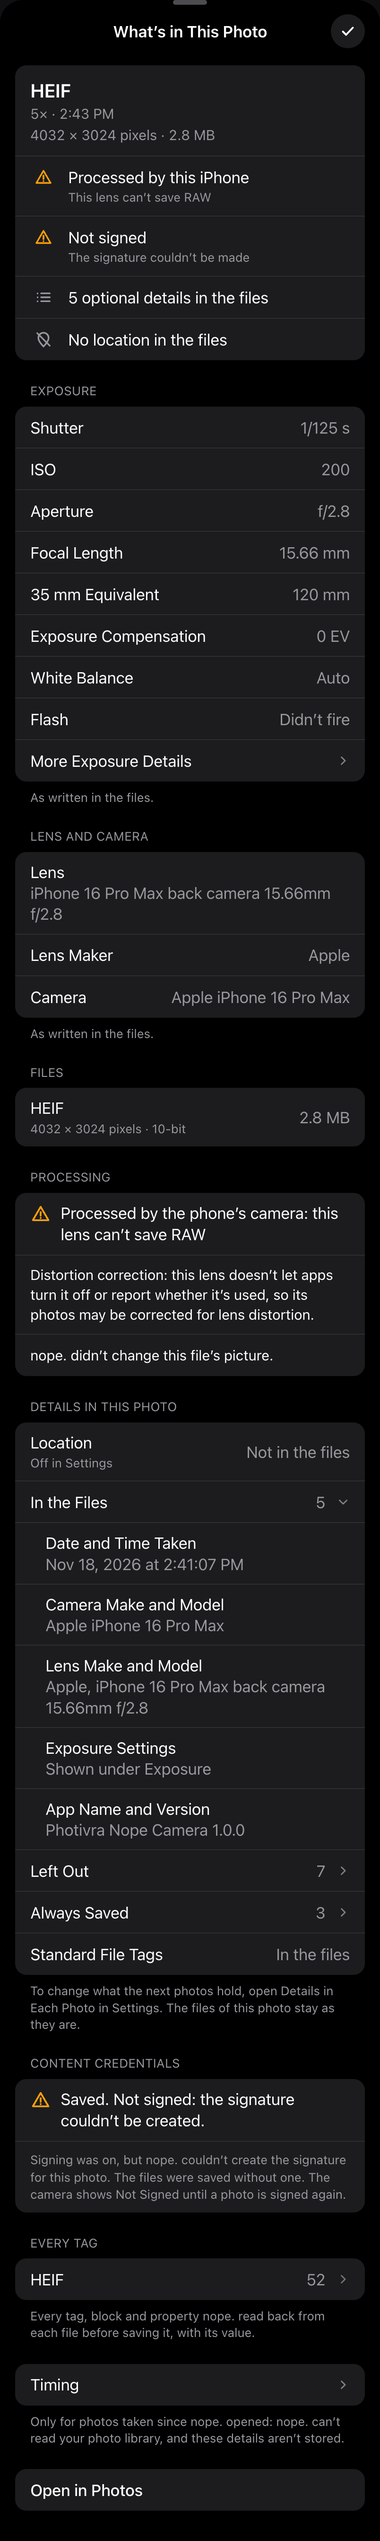
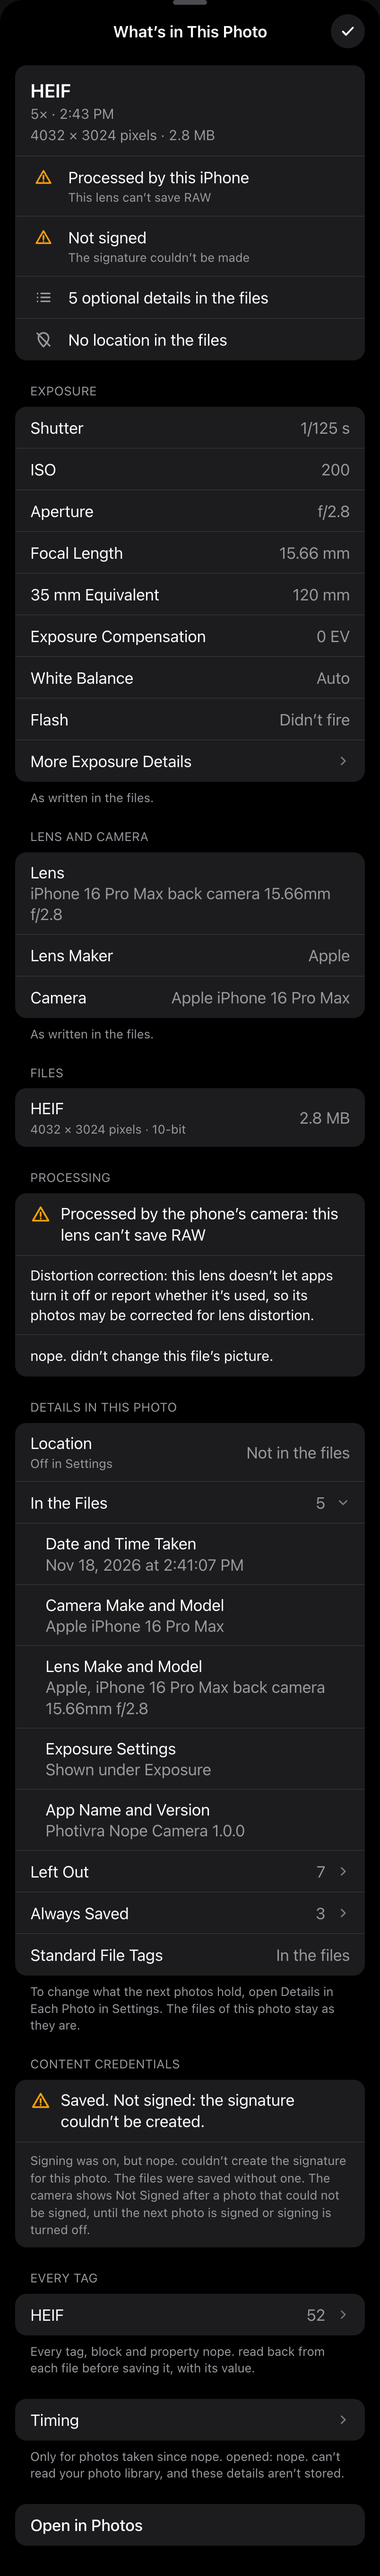
What's in This Photo: say when the Not Signed warning goes away
The Content Credentials group said the camera shows Not Signed "until a
photo is signed again". The warning follows the last photo and also goes
when signing is turned off, so both sentences now end: "The camera shows
Not Signed after a photo that could not be signed, until the next photo
is signed or signing is turned off." The wording is a draft for the
Honesty review. The two figures with the sentence are redrawn.

testDetailsSignatureStates checks the sentence. The location test now
scrolls to the summary's location row instead of waiting for it, as the
other summary checks do.

This is the Honesty sentence of the issue; its documents are done with
the rest of it.

Refs #113

diff --git a/docs/design/screens/sheet-photo-details-processed.html b/docs/design/screens/sheet-photo-details-processed.html
@@ -211,7 +211,7 @@ html{background:#101012}body{margin:0;color:#f2f2f7;font:15px/1.45 -apple-system
 </style>
 </head>
 <body>
-<div class="stage"><div class="form " style="width:402px;border-radius:24px 24px 0 0;padding-bottom:32px;"><div class=grab></div><div class="nav"><div class="back"></div><span>What’s in This Photo</span><div class="done"><span><svg class="ic " width="18" height="18" viewBox="0 0 24 24" fill="none" stroke="currentColor" stroke-width="2.6" stroke-linecap="round" stroke-linejoin="round" aria-hidden="true"><path d="m5 12.5 4.5 4.5L19 7"/></svg></span></div></div><div style="height:8px"></div><div class="grp"><div class="sm-h"><b>HEIF</b><span>5× · 2:43 PM</span><span>4032 × 3024 pixels · 2.8 MB</span></div><div class="sm-r w"><div class="ico"><svg class="ic " width="20" height="20" viewBox="0 0 24 24" fill="none" stroke="currentColor" stroke-width="2" stroke-linecap="round" stroke-linejoin="round" aria-hidden="true"><path d="M12 4 21 19.5H3z"/><path d="M12 10v4.5M12 17v.2"/></svg></div><div>Processed by this iPhone<small>This lens can’t save RAW</small></div></div><div class="sm-r w"><div class="ico"><svg class="ic " width="20" height="20" viewBox="0 0 24 24" fill="none" stroke="currentColor" stroke-width="2" stroke-linecap="round" stroke-linejoin="round" aria-hidden="true"><path d="M12 4 21 19.5H3z"/><path d="M12 10v4.5M12 17v.2"/></svg></div><div>Not signed<small>The signature couldn’t be made</small></div></div><div class="sm-r "><div class="ico"><svg class="ic " width="20" height="20" viewBox="0 0 24 24" fill="none" stroke="currentColor" stroke-width="2" stroke-linecap="round" stroke-linejoin="round" aria-hidden="true"><path d="M9 7h11M9 12h11M9 17h11M4.5 7v.2M4.5 12v.2M4.5 17v.2"/></svg></div><div>5 optional details in the files</div></div><div class="sm-r "><div class="ico"><svg class="ic " width="20" height="20" viewBox="0 0 24 24" fill="none" stroke="currentColor" stroke-width="2" stroke-linecap="round" stroke-linejoin="round" aria-hidden="true"><path d="M12 21s-6.5-6.2-6.5-11a6.500 6.500 0 0 1 13 0c0 4.800-6.500 11-6.500 11z"/><path d="m4 4 16 16"/></svg></div><div>No location in the files</div></div></div><h5>Exposure</h5><div class="grp"><div class="cell"><div class="l">Shutter</div><div class="pd-v">1/125 s</div></div><div class="cell"><div class="l">ISO</div><div class="pd-v">200</div></div><div class="cell"><div class="l">Aperture</div><div class="pd-v">f/2.8</div></div><div class="cell"><div class="l">Focal Length</div><div class="pd-v">15.66 mm</div></div><div class="cell"><div class="l">35 mm Equivalent</div><div class="pd-v">120 mm</div></div><div class="cell"><div class="l">Exposure Compensation</div><div class="pd-v">0 EV</div></div><div class="cell"><div class="l">White Balance</div><div class="pd-v">Auto</div></div><div class="cell"><div class="l">Flash</div><div class="pd-v">Didn’t fire</div></div><div class="cell"><div class="l">More Exposure Details</div><div class="pd-d"><svg class="ic dirx" width="14" height="14" viewBox="0 0 24 24" fill="none" stroke="currentColor" stroke-width="2.4" stroke-linecap="round" stroke-linejoin="round" aria-hidden="true"><path d="m9 5.5 6.5 6.5L9 18.5"/></svg></div></div></div><p class=foot2>As written in the files.</p><h5>Lens and Camera</h5><div class="grp"><div class="cell"><div class="l">Lens<div style="color:var(--fsec)">iPhone 16 Pro Max back camera 15.66mm f/2.8</div></div></div><div class="cell"><div class="l">Lens Maker</div><div class="pd-v">Apple</div></div><div class="cell"><div class="l">Camera</div><div class="pd-v">Apple iPhone 16 Pro Max</div></div></div><p class=foot2>As written in the files.</p><h5>Files</h5><div class="grp"><div class="cell"><div class="l">HEIF<small style="display:block;font-size:13px;color:var(--fsec);margin-top:2px;line-height:1.35">4032 × 3024 pixels · 10-bit</small></div><div class="pd-v">2.8 MB</div></div></div><h5>Processing</h5><div class="grp"><div class="cell" style="align-items:flex-start"><div class="pd-ln w" style="font-size:17px"><svg class="ic " width="22" height="22" viewBox="0 0 24 24" fill="none" stroke="currentColor" stroke-width="2" stroke-linecap="round" stroke-linejoin="round" aria-hidden="true"><path d="M12 4 21 19.5H3z"/><path d="M12 10v4.5M12 17v.2"/></svg><span>Processed by the phone’s camera: this lens can’t save RAW</span></div></div><div class="cell"><div class="l" style="font-size:15px;line-height:1.4;">Distortion correction: this lens doesn’t let apps turn it off or report whether it’s used, so its photos may be corrected for lens distortion.</div></div><div class="cell"><div class="l" style="font-size:15px;line-height:1.4;">nope. didn’t change this file’s picture.</div></div></div><h5>Details in This Photo</h5><div class="grp"><div class="cell"><div class="l">Location<small style="display:block;font-size:13px;color:var(--fsec);margin-top:2px;line-height:1.35">Off in Settings</small></div><div class="pd-v">Not in the files</div></div><div class="cell"><div class="l">In the Files</div><div class=pd-v>5</div><div class="pd-d"><svg class="ic " width="14" height="14" viewBox="0 0 24 24" fill="none" stroke="currentColor" stroke-width="2.4" stroke-linecap="round" stroke-linejoin="round" aria-hidden="true"><path d="m5.5 9 6.5 6.5L18.5 9"/></svg></div></div><div class="cell pd-in"><div class="l">Date and Time Taken<div style="color:var(--fsec)">Nov 18, 2026 at 2:41:07 PM</div></div></div><div class="cell pd-in"><div class="l">Camera Make and Model<div style="color:var(--fsec)">Apple iPhone 16 Pro Max</div></div></div><div class="cell pd-in"><div class="l">Lens Make and Model<div style="color:var(--fsec)">Apple, iPhone 16 Pro Max back camera 15.66mm f/2.8</div></div></div><div class="cell pd-in"><div class="l">Exposure Settings<div style="color:var(--fsec)">Shown under Exposure</div></div></div><div class="cell pd-in"><div class="l">App Name and Version<div style="color:var(--fsec)">Photivra Nope Camera 1.0.0</div></div></div><div class="cell"><div class="l">Left Out</div><div class=pd-v>7</div><div class="pd-d"><svg class="ic dirx" width="14" height="14" viewBox="0 0 24 24" fill="none" stroke="currentColor" stroke-width="2.4" stroke-linecap="round" stroke-linejoin="round" aria-hidden="true"><path d="m9 5.5 6.5 6.5L9 18.5"/></svg></div></div><div class="cell"><div class="l">Always Saved</div><div class=pd-v>3</div><div class="pd-d"><svg class="ic dirx" width="14" height="14" viewBox="0 0 24 24" fill="none" stroke="currentColor" stroke-width="2.4" stroke-linecap="round" stroke-linejoin="round" aria-hidden="true"><path d="m9 5.5 6.5 6.5L9 18.5"/></svg></div></div><div class="cell"><div class="l">Standard File Tags</div><div class="pd-v">In the files</div></div></div><p class=foot2>To change what the next photos hold, open Details in Each Photo in Settings. The files of this photo stay as they are.</p><h5>Content Credentials</h5><div class="grp"><div class="cell" style="align-items:flex-start"><div class="pd-ln w" style="font-size:17px"><svg class="ic " width="22" height="22" viewBox="0 0 24 24" fill="none" stroke="currentColor" stroke-width="2" stroke-linecap="round" stroke-linejoin="round" aria-hidden="true"><path d="M12 4 21 19.5H3z"/><path d="M12 10v4.5M12 17v.2"/></svg><span>Saved. Not signed: the signature couldn’t be created.</span></div></div><div class="cell"><div class="l" style="font-size:13px;line-height:1.4;color:var(--fsec)">Signing was on, but nope. couldn’t create the signature for this photo. The files were saved without one. The camera shows Not Signed until a photo is signed again.</div></div></div><h5>Every Tag</h5><div class="grp"><div class="cell"><div class="l">HEIF</div><div class=v>52</div><div class="chev"><svg class="ic dirx" width="14" height="14" viewBox="0 0 24 24" fill="none" stroke="currentColor" stroke-width="2.4" stroke-linecap="round" stroke-linejoin="round" aria-hidden="true"><path d="m9 5.5 6.5 6.5L9 18.5"/></svg></div></div></div><p class=foot2>Every tag, block and property nope. read back from each file before saving it, with its value.</p><div style="height:24px"></div><div class="grp"><div class="cell"><div class="l">Timing</div><div class="pd-d"><svg class="ic dirx" width="14" height="14" viewBox="0 0 24 24" fill="none" stroke="currentColor" stroke-width="2.4" stroke-linecap="round" stroke-linejoin="round" aria-hidden="true"><path d="m9 5.5 6.5 6.5L9 18.5"/></svg></div></div></div><p class=foot2>Only for photos taken since nope. opened: nope. can’t read your photo library, and these details aren’t stored.</p><div style="height:24px"></div><div class="grp"><div class="cell btn"><div class="l">Open in Photos</div></div></div></div></div>
+<div class="stage"><div class="form " style="width:402px;border-radius:24px 24px 0 0;padding-bottom:32px;"><div class=grab></div><div class="nav"><div class="back"></div><span>What’s in This Photo</span><div class="done"><span><svg class="ic " width="18" height="18" viewBox="0 0 24 24" fill="none" stroke="currentColor" stroke-width="2.6" stroke-linecap="round" stroke-linejoin="round" aria-hidden="true"><path d="m5 12.5 4.5 4.5L19 7"/></svg></span></div></div><div style="height:8px"></div><div class="grp"><div class="sm-h"><b>HEIF</b><span>5× · 2:43 PM</span><span>4032 × 3024 pixels · 2.8 MB</span></div><div class="sm-r w"><div class="ico"><svg class="ic " width="20" height="20" viewBox="0 0 24 24" fill="none" stroke="currentColor" stroke-width="2" stroke-linecap="round" stroke-linejoin="round" aria-hidden="true"><path d="M12 4 21 19.5H3z"/><path d="M12 10v4.5M12 17v.2"/></svg></div><div>Processed by this iPhone<small>This lens can’t save RAW</small></div></div><div class="sm-r w"><div class="ico"><svg class="ic " width="20" height="20" viewBox="0 0 24 24" fill="none" stroke="currentColor" stroke-width="2" stroke-linecap="round" stroke-linejoin="round" aria-hidden="true"><path d="M12 4 21 19.5H3z"/><path d="M12 10v4.5M12 17v.2"/></svg></div><div>Not signed<small>The signature couldn’t be made</small></div></div><div class="sm-r "><div class="ico"><svg class="ic " width="20" height="20" viewBox="0 0 24 24" fill="none" stroke="currentColor" stroke-width="2" stroke-linecap="round" stroke-linejoin="round" aria-hidden="true"><path d="M9 7h11M9 12h11M9 17h11M4.5 7v.2M4.5 12v.2M4.5 17v.2"/></svg></div><div>5 optional details in the files</div></div><div class="sm-r "><div class="ico"><svg class="ic " width="20" height="20" viewBox="0 0 24 24" fill="none" stroke="currentColor" stroke-width="2" stroke-linecap="round" stroke-linejoin="round" aria-hidden="true"><path d="M12 21s-6.5-6.2-6.5-11a6.500 6.500 0 0 1 13 0c0 4.800-6.500 11-6.500 11z"/><path d="m4 4 16 16"/></svg></div><div>No location in the files</div></div></div><h5>Exposure</h5><div class="grp"><div class="cell"><div class="l">Shutter</div><div class="pd-v">1/125 s</div></div><div class="cell"><div class="l">ISO</div><div class="pd-v">200</div></div><div class="cell"><div class="l">Aperture</div><div class="pd-v">f/2.8</div></div><div class="cell"><div class="l">Focal Length</div><div class="pd-v">15.66 mm</div></div><div class="cell"><div class="l">35 mm Equivalent</div><div class="pd-v">120 mm</div></div><div class="cell"><div class="l">Exposure Compensation</div><div class="pd-v">0 EV</div></div><div class="cell"><div class="l">White Balance</div><div class="pd-v">Auto</div></div><div class="cell"><div class="l">Flash</div><div class="pd-v">Didn’t fire</div></div><div class="cell"><div class="l">More Exposure Details</div><div class="pd-d"><svg class="ic dirx" width="14" height="14" viewBox="0 0 24 24" fill="none" stroke="currentColor" stroke-width="2.4" stroke-linecap="round" stroke-linejoin="round" aria-hidden="true"><path d="m9 5.5 6.5 6.5L9 18.5"/></svg></div></div></div><p class=foot2>As written in the files.</p><h5>Lens and Camera</h5><div class="grp"><div class="cell"><div class="l">Lens<div style="color:var(--fsec)">iPhone 16 Pro Max back camera 15.66mm f/2.8</div></div></div><div class="cell"><div class="l">Lens Maker</div><div class="pd-v">Apple</div></div><div class="cell"><div class="l">Camera</div><div class="pd-v">Apple iPhone 16 Pro Max</div></div></div><p class=foot2>As written in the files.</p><h5>Files</h5><div class="grp"><div class="cell"><div class="l">HEIF<small style="display:block;font-size:13px;color:var(--fsec);margin-top:2px;line-height:1.35">4032 × 3024 pixels · 10-bit</small></div><div class="pd-v">2.8 MB</div></div></div><h5>Processing</h5><div class="grp"><div class="cell" style="align-items:flex-start"><div class="pd-ln w" style="font-size:17px"><svg class="ic " width="22" height="22" viewBox="0 0 24 24" fill="none" stroke="currentColor" stroke-width="2" stroke-linecap="round" stroke-linejoin="round" aria-hidden="true"><path d="M12 4 21 19.5H3z"/><path d="M12 10v4.5M12 17v.2"/></svg><span>Processed by the phone’s camera: this lens can’t save RAW</span></div></div><div class="cell"><div class="l" style="font-size:15px;line-height:1.4;">Distortion correction: this lens doesn’t let apps turn it off or report whether it’s used, so its photos may be corrected for lens distortion.</div></div><div class="cell"><div class="l" style="font-size:15px;line-height:1.4;">nope. didn’t change this file’s picture.</div></div></div><h5>Details in This Photo</h5><div class="grp"><div class="cell"><div class="l">Location<small style="display:block;font-size:13px;color:var(--fsec);margin-top:2px;line-height:1.35">Off in Settings</small></div><div class="pd-v">Not in the files</div></div><div class="cell"><div class="l">In the Files</div><div class=pd-v>5</div><div class="pd-d"><svg class="ic " width="14" height="14" viewBox="0 0 24 24" fill="none" stroke="currentColor" stroke-width="2.4" stroke-linecap="round" stroke-linejoin="round" aria-hidden="true"><path d="m5.5 9 6.5 6.5L18.5 9"/></svg></div></div><div class="cell pd-in"><div class="l">Date and Time Taken<div style="color:var(--fsec)">Nov 18, 2026 at 2:41:07 PM</div></div></div><div class="cell pd-in"><div class="l">Camera Make and Model<div style="color:var(--fsec)">Apple iPhone 16 Pro Max</div></div></div><div class="cell pd-in"><div class="l">Lens Make and Model<div style="color:var(--fsec)">Apple, iPhone 16 Pro Max back camera 15.66mm f/2.8</div></div></div><div class="cell pd-in"><div class="l">Exposure Settings<div style="color:var(--fsec)">Shown under Exposure</div></div></div><div class="cell pd-in"><div class="l">App Name and Version<div style="color:var(--fsec)">Photivra Nope Camera 1.0.0</div></div></div><div class="cell"><div class="l">Left Out</div><div class=pd-v>7</div><div class="pd-d"><svg class="ic dirx" width="14" height="14" viewBox="0 0 24 24" fill="none" stroke="currentColor" stroke-width="2.4" stroke-linecap="round" stroke-linejoin="round" aria-hidden="true"><path d="m9 5.5 6.5 6.5L9 18.5"/></svg></div></div><div class="cell"><div class="l">Always Saved</div><div class=pd-v>3</div><div class="pd-d"><svg class="ic dirx" width="14" height="14" viewBox="0 0 24 24" fill="none" stroke="currentColor" stroke-width="2.4" stroke-linecap="round" stroke-linejoin="round" aria-hidden="true"><path d="m9 5.5 6.5 6.5L9 18.5"/></svg></div></div><div class="cell"><div class="l">Standard File Tags</div><div class="pd-v">In the files</div></div></div><p class=foot2>To change what the next photos hold, open Details in Each Photo in Settings. The files of this photo stay as they are.</p><h5>Content Credentials</h5><div class="grp"><div class="cell" style="align-items:flex-start"><div class="pd-ln w" style="font-size:17px"><svg class="ic " width="22" height="22" viewBox="0 0 24 24" fill="none" stroke="currentColor" stroke-width="2" stroke-linecap="round" stroke-linejoin="round" aria-hidden="true"><path d="M12 4 21 19.5H3z"/><path d="M12 10v4.5M12 17v.2"/></svg><span>Saved. Not signed: the signature couldn’t be created.</span></div></div><div class="cell"><div class="l" style="font-size:13px;line-height:1.4;color:var(--fsec)">Signing was on, but nope. couldn’t create the signature for this photo. The files were saved without one. The camera shows Not Signed after a photo that could not be signed, until the next photo is signed or signing is turned off.</div></div></div><h5>Every Tag</h5><div class="grp"><div class="cell"><div class="l">HEIF</div><div class=v>52</div><div class="chev"><svg class="ic dirx" width="14" height="14" viewBox="0 0 24 24" fill="none" stroke="currentColor" stroke-width="2.4" stroke-linecap="round" stroke-linejoin="round" aria-hidden="true"><path d="m9 5.5 6.5 6.5L9 18.5"/></svg></div></div></div><p class=foot2>Every tag, block and property nope. read back from each file before saving it, with its value.</p><div style="height:24px"></div><div class="grp"><div class="cell"><div class="l">Timing</div><div class="pd-d"><svg class="ic dirx" width="14" height="14" viewBox="0 0 24 24" fill="none" stroke="currentColor" stroke-width="2.4" stroke-linecap="round" stroke-linejoin="round" aria-hidden="true"><path d="m9 5.5 6.5 6.5L9 18.5"/></svg></div></div></div><p class=foot2>Only for photos taken since nope. opened: nope. can’t read your photo library, and these details aren’t stored.</p><div style="height:24px"></div><div class="grp"><div class="cell btn"><div class="l">Open in Photos</div></div></div></div></div>
 <div class="note"><b>What’s in This Photo, a processed photo that could not be signed</b>A lens without RAW: one HEIF, processed by the phone’s camera. The summary and Processing say so with the amber triangle; Processing carries the lens’s distortion line and what nope. did. There is no RAW Sensor Data group. Signing was on and failed, so the signature line is a warning, with the reason. Drawn 402 pt wide, at its full scrolling height. <a href="sheet-photo-details-processed.png">PNG</a> · <a href="../photo-details.html">Back to the set</a> · <a href="../overview.html">Overview</a></div>
 </body>
 </html>

diff --git a/docs/design/screens/sheet-photo-details-signature.html b/docs/design/screens/sheet-photo-details-signature.html
@@ -210,7 +210,7 @@ html{background:#101012}body{margin:0;color:#f2f2f7;font:15px/1.45 -apple-system
 </style>
 </head>
 <body>
-<div class="stage"><div class="form " style="width:402px;border-radius:24px 24px 0 0;padding-bottom:32px;"><div class="nav"><div class="back"></div><span>What’s in This Photo</span><div class="done"><span><svg class="ic " width="18" height="18" viewBox="0 0 24 24" fill="none" stroke="currentColor" stroke-width="2.6" stroke-linecap="round" stroke-linejoin="round" aria-hidden="true"><path d="m5 12.5 4.5 4.5L19 7"/></svg></span></div></div><div class="pd-var"><i>1</i>Signed</div><h5>Content Credentials</h5><div class="grp"><div class="cell" style="align-items:flex-start"><div class="pd-ln f" style="font-size:17px"><svg class="ic " width="22" height="22" viewBox="0 0 24 24" fill="none" stroke="currentColor" stroke-width="2" stroke-linecap="round" stroke-linejoin="round" aria-hidden="true"><circle cx="12" cy="12" r="8.5"/><path d="m8.2 12.3 2.6 2.6 5-5.6"/></svg><span>Saved and signed.</span></div></div><div class="cell"><div class="l" style="font-size:15px;line-height:1.4;">The signature lets anyone check that a file hasn’t changed since nope. saved it. It doesn’t show who took the photo or on which device.</div></div><div class="cell"><div class="l">RAW (DNG)<div style="color:var(--fsec)">Claim generator: Photivra Nope Camera 1.0.0</div><div class="pd-n">“Captured by Photivra Nope Camera as a single frame of RAW sensor data, with as little processing as the phone allows.”</div></div></div><div class="cell"><div class="l">Manifest SHA-256</div><div class="pd-d"><svg class="ic dirx" width="14" height="14" viewBox="0 0 24 24" fill="none" stroke="currentColor" stroke-width="2.4" stroke-linecap="round" stroke-linejoin="round" aria-hidden="true"><path d="m9 5.5 6.5 6.5L9 18.5"/></svg></div></div><div class="cell"><div class="l">HEIF<div style="color:var(--fsec)">Claim generator: Photivra Nope Camera 1.0.0</div><div class="pd-n">“Developed by Photivra Nope Camera on the phone from a single frame of RAW sensor data.”</div></div></div><div class="cell"><div class="l">Manifest SHA-256</div><div class="pd-d"><svg class="ic dirx" width="14" height="14" viewBox="0 0 24 24" fill="none" stroke="currentColor" stroke-width="2.4" stroke-linecap="round" stroke-linejoin="round" aria-hidden="true"><path d="m9 5.5 6.5 6.5L9 18.5"/></svg></div></div><div class="cell"><div class="l" style="font-size:13px;line-height:1.4;color:var(--fsec)">To check a file, open it in a Content Credentials checker. Each photo is signed with its own one-time key, so a checker reports the file as valid and the signer as untrusted.</div></div></div><div class="pd-var"><i>2</i>Not signed: signing is off in Settings (a choice, not a warning)</div><h5>Content Credentials</h5><div class="grp"><div class="cell" style="align-items:flex-start"><div class="pd-ln " style="font-size:17px"><svg class="ic " width="22" height="22" viewBox="0 0 24 24" fill="none" stroke="currentColor" stroke-width="2" stroke-linecap="round" stroke-linejoin="round" aria-hidden="true"><circle cx="12" cy="12" r="8.5"/><path d="M12 11v5.500M12 7.500v.2"/></svg><span>Saved. Not signed: signing is off in Settings.</span></div></div><div class="cell"><div class="l" style="font-size:13px;line-height:1.4;color:var(--fsec)">Sign Each Photo is off in Settings, so these files have no signature.</div></div></div><div class="pd-var"><i>3</i>Not signed: signing was on and failed (a warning)</div><h5>Content Credentials</h5><div class="grp"><div class="cell" style="align-items:flex-start"><div class="pd-ln w" style="font-size:17px"><svg class="ic " width="22" height="22" viewBox="0 0 24 24" fill="none" stroke="currentColor" stroke-width="2" stroke-linecap="round" stroke-linejoin="round" aria-hidden="true"><path d="M12 4 21 19.5H3z"/><path d="M12 10v4.5M12 17v.2"/></svg><span>Saved. Not signed: the signature couldn’t be created.</span></div></div><div class="cell"><div class="l" style="font-size:13px;line-height:1.4;color:var(--fsec)">Signing was on, but nope. couldn’t create the signature for this photo. The files were saved without one. The camera shows Not Signed until a photo is signed again.</div></div></div></div></div>
+<div class="stage"><div class="form " style="width:402px;border-radius:24px 24px 0 0;padding-bottom:32px;"><div class="nav"><div class="back"></div><span>What’s in This Photo</span><div class="done"><span><svg class="ic " width="18" height="18" viewBox="0 0 24 24" fill="none" stroke="currentColor" stroke-width="2.6" stroke-linecap="round" stroke-linejoin="round" aria-hidden="true"><path d="m5 12.5 4.5 4.5L19 7"/></svg></span></div></div><div class="pd-var"><i>1</i>Signed</div><h5>Content Credentials</h5><div class="grp"><div class="cell" style="align-items:flex-start"><div class="pd-ln f" style="font-size:17px"><svg class="ic " width="22" height="22" viewBox="0 0 24 24" fill="none" stroke="currentColor" stroke-width="2" stroke-linecap="round" stroke-linejoin="round" aria-hidden="true"><circle cx="12" cy="12" r="8.5"/><path d="m8.2 12.3 2.6 2.6 5-5.6"/></svg><span>Saved and signed.</span></div></div><div class="cell"><div class="l" style="font-size:15px;line-height:1.4;">The signature lets anyone check that a file hasn’t changed since nope. saved it. It doesn’t show who took the photo or on which device.</div></div><div class="cell"><div class="l">RAW (DNG)<div style="color:var(--fsec)">Claim generator: Photivra Nope Camera 1.0.0</div><div class="pd-n">“Captured by Photivra Nope Camera as a single frame of RAW sensor data, with as little processing as the phone allows.”</div></div></div><div class="cell"><div class="l">Manifest SHA-256</div><div class="pd-d"><svg class="ic dirx" width="14" height="14" viewBox="0 0 24 24" fill="none" stroke="currentColor" stroke-width="2.4" stroke-linecap="round" stroke-linejoin="round" aria-hidden="true"><path d="m9 5.5 6.5 6.5L9 18.5"/></svg></div></div><div class="cell"><div class="l">HEIF<div style="color:var(--fsec)">Claim generator: Photivra Nope Camera 1.0.0</div><div class="pd-n">“Developed by Photivra Nope Camera on the phone from a single frame of RAW sensor data.”</div></div></div><div class="cell"><div class="l">Manifest SHA-256</div><div class="pd-d"><svg class="ic dirx" width="14" height="14" viewBox="0 0 24 24" fill="none" stroke="currentColor" stroke-width="2.4" stroke-linecap="round" stroke-linejoin="round" aria-hidden="true"><path d="m9 5.5 6.5 6.5L9 18.5"/></svg></div></div><div class="cell"><div class="l" style="font-size:13px;line-height:1.4;color:var(--fsec)">To check a file, open it in a Content Credentials checker. Each photo is signed with its own one-time key, so a checker reports the file as valid and the signer as untrusted.</div></div></div><div class="pd-var"><i>2</i>Not signed: signing is off in Settings (a choice, not a warning)</div><h5>Content Credentials</h5><div class="grp"><div class="cell" style="align-items:flex-start"><div class="pd-ln " style="font-size:17px"><svg class="ic " width="22" height="22" viewBox="0 0 24 24" fill="none" stroke="currentColor" stroke-width="2" stroke-linecap="round" stroke-linejoin="round" aria-hidden="true"><circle cx="12" cy="12" r="8.5"/><path d="M12 11v5.500M12 7.500v.2"/></svg><span>Saved. Not signed: signing is off in Settings.</span></div></div><div class="cell"><div class="l" style="font-size:13px;line-height:1.4;color:var(--fsec)">Sign Each Photo is off in Settings, so these files have no signature.</div></div></div><div class="pd-var"><i>3</i>Not signed: signing was on and failed (a warning)</div><h5>Content Credentials</h5><div class="grp"><div class="cell" style="align-items:flex-start"><div class="pd-ln w" style="font-size:17px"><svg class="ic " width="22" height="22" viewBox="0 0 24 24" fill="none" stroke="currentColor" stroke-width="2" stroke-linecap="round" stroke-linejoin="round" aria-hidden="true"><path d="M12 4 21 19.5H3z"/><path d="M12 10v4.5M12 17v.2"/></svg><span>Saved. Not signed: the signature couldn’t be created.</span></div></div><div class="cell"><div class="l" style="font-size:13px;line-height:1.4;color:var(--fsec)">Signing was on, but nope. couldn’t create the signature for this photo. The files were saved without one. The camera shows Not Signed after a photo that could not be signed, until the next photo is signed or signing is turned off.</div></div></div></div></div>
 <div class="note"><b>Content Credentials, the three states</b>The Content Credentials group in its three states, one under the other for comparison; the sheet shows one. Signed: the teal seal, what the signature shows and does not show, each file’s manifest, and how to check a file. Signing off by choice: the information symbol, no warning. Signing on and failed: the amber triangle and the reason. The wording is a draft for the Honesty review. Drawn 402 pt wide, at its full scrolling height. <a href="sheet-photo-details-signature.png">PNG</a> · <a href="../photo-details.html">Back to the set</a> · <a href="../overview.html">Overview</a></div>
 </body>
 </html>

diff --git a/Sources/NopeUI/PhotoDetailsSignature.swift b/Sources/NopeUI/PhotoDetailsSignature.swift
@@ -90,11 +90,11 @@ struct ContentCredentialsSection: View {
         case .unsigned(.turnedOff):
             Text("Sign Each Photo is off in Settings, so these files have no signature.", tableName: "Honesty", bundle: .module, comment: "In the photo details: the photo isn't signed because the person turned the Sign Each Photo setting off. Not a warning. Draft wording for the Honesty review.")
         case .unsigned(.failed):
-            Text("Signing was on, but nope. couldn't create the signature for this photo. The files were saved without one. The camera shows Not Signed until a photo is signed again.", tableName: "Honesty", bundle: .module, comment: "In the photo details: signing was on but failed for this photo, so it was saved unsigned. Not Signed is the warning chip on the camera. Keep nope. unchanged. Draft wording for the Honesty review.")
+            Text("Signing was on, but nope. couldn't create the signature for this photo. The files were saved without one. The camera shows Not Signed after a photo that could not be signed, until the next photo is signed or signing is turned off.", tableName: "Honesty", bundle: .module, comment: "In the photo details: signing was on but failed for this photo, so it was saved unsigned. Not Signed is the warning chip on the camera. The last sentence says when the camera's warning goes away (issue #113): it follows the last photo, and also goes when signing is turned off. Keep nope. unchanged. Draft wording for the Honesty review.")
         case .unsigned(.unavailable):
             Text("Signing was on, but this version of the app can't sign photos. The files were saved without a signature.", tableName: "Honesty", bundle: .module, comment: "In the photo details: signing was on, but this build of the app has no signer, so the photo was saved unsigned. Draft wording for the Honesty review.")
         case .unsigned(.signedFileFailedCheck):
-            Text("Signing was on, but the signed file didn't pass nope.'s check, so the file that passed was saved without a signature. The camera shows Not Signed until a photo is signed again.", tableName: "Honesty", bundle: .module, comment: "In the photo details: a signed file failed the read-back check, so the unsigned file, which passed, was saved instead. Not Signed is the warning chip on the camera. Keep nope. unchanged. Draft wording for the Honesty review.")
+            Text("Signing was on, but the signed file didn't pass nope.'s check, so the file that passed was saved without a signature. The camera shows Not Signed after a photo that could not be signed, until the next photo is signed or signing is turned off.", tableName: "Honesty", bundle: .module, comment: "In the photo details: a signed file failed the read-back check, so the unsigned file, which passed, was saved instead. Not Signed is the warning chip on the camera. The last sentence says when the camera's warning goes away (issue #113): it follows the last photo, and also goes when signing is turned off. Keep nope. unchanged. Draft wording for the Honesty review.")
         }
     }
 }

diff --git a/App/NopeAppUITests/PhotoDetailsUITests.swift b/App/NopeAppUITests/PhotoDetailsUITests.swift
@@ -236,6 +236,13 @@ extension NopeAppUITests {
             openPhotoDetails(app)
             let explanation = element(app, containing: sentence)
             XCTAssertTrue(scrollDetails(app, to: explanation), sentence)
+            if scenario == "signingFails" {
+                // When the warning on the camera goes away (issue #113).
+                XCTAssertTrue(
+                    explanation.label.contains(
+                        "The camera shows Not Signed after a photo that could not be signed, until the next photo is signed or signing is turned off."),
+                    explanation.label)
+            }
             try audit(app, afterScrolling: true, checksDynamicType: false)
             app.terminate()
         }
@@ -245,7 +252,7 @@ extension NopeAppUITests {
     func testDetailsLocationHiddenUntilShown() throws {
         let app = launch("manual", extraArguments: Self.locationKept)
         openPhotoDetails(app)
-        XCTAssertTrue(summaryRow(app, "location").waitForExistence(timeout: 5))
+        XCTAssertTrue(scrollDetails(app, to: summaryRow(app, "location")))
         XCTAssertEqual(summaryRow(app, "location").label, "Warning, Location is in the files")
         let show = app.buttons["Show Value, Location"]
         XCTAssertTrue(scrollDetails(app, to: show))

diff --git a/CHANGELOG.md b/CHANGELOG.md
@@ -110,6 +110,7 @@ Languages: 1.0.0 ships in English only (issue #86); Spanish (es, with es-419 ove
   - The viewer's page could not be zoomed after a series of more than 100 photos dropped the photo it was opened on (issue #102). The viewer showed the newest photo but kept the dropped photo as the one shown, so the page drawn had no zoom. It now follows the newest photo (`PhotoViewerFacts.shownID(_:in:)`). Unit tests in `PhotoViewerTests`; a device check in `docs/TESTING.md`.
   - The viewer decoded its three pages at the preview's full 3072 pixels, about 28 MB each (issue #103). Each page is now decoded at the size it fills on the screen, and the page shown at full size only while it is zoomed in; a page that leaves the zoom goes back to the fitted picture (`PhotoViewerFacts.decodes(around:in:page:displayScale:isZoomed:)`, through `SessionPhotos.picture(of:maximumPixelSize:)`). Unit tests for the sizes asked for; the memory before and after is a device check in `docs/TESTING.md`.
   - At accessibility text sizes the viewer's status lines ("Processed · HEIF", "Not signed") kept their full width and could run past the edge of a narrow window (issue #110). In the stacked lines each now wraps; the one-line forms are unchanged. A unit test measures the lines in a 160-point width.
+  - What's in This Photo said the camera shows Not Signed "until a photo is signed again", which was not exact: the warning follows the last photo, and also goes when signing is turned off (issue #113). Both sentences of Content Credentials now say "The camera shows Not Signed after a photo that could not be signed, until the next photo is signed or signing is turned off." A draft for the Honesty review. The two figures with the sentence are redrawn.
 - Fifth code review of 1.0.0:
   - Night Mode rows in settings pages and sheets are darker: `#1C0000` on a black page, where the night red is 5.0:1 (it was 4.74:1 on the `#2C0000` rows of a sheet, which the iOS 26.5 accessibility audit reported as "Contrast nearly passed"). `NopeForm` and `NopeList` wrap the system's `Form` and `List`, with the new token `NopeColor.nightRowUnderMultiply` (`docs/design/tokens.md`, "Night mode rows"); outside night mode nothing changes.
   - UI tests: a contrast finding is set aside only when the element, measured from a screenshot, has a contrast of 7:1 or more, and each one is logged with the ratio and the iOS version (`docs/TESTING.md`, "Contrast findings set aside by measurement"); the iOS 26.5 audit reported the "Guides" header (about 18:1). Finding a Settings row scrolls until the row shows or the list stops moving, so rows near the top are found at the largest text size. The focus bracket card is scrolled below the status bar before it is tapped.
